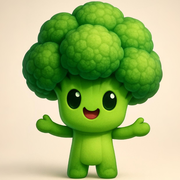
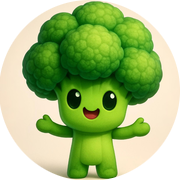
update index.html to enhance hero section and add watermark effect

diff --git a/index.html b/index.html
@@ -39,12 +39,15 @@ a:hover{color:#2a6e23}
 img{max-width:100%;display:block}
 .wrap{max-width:960px;margin:0 auto;padding:0 24px}
 
+.hero,main,footer{position:relative;z-index:1}
+
 /* ── HERO ── */
-.hero{padding:72px 24px 56px;text-align:center}
+.hero{padding:140px 24px 56px;text-align:center}
 .hero-inner{max-width:640px;margin:0 auto}
 .badge{display:inline-flex;align-items:center;gap:8px;background:#fffdf7;border:1px solid #e3d8bf;color:#6b6046;font-size:0.78em;font-weight:700;letter-spacing:0.04em;padding:6px 16px;border-radius:100px;margin-bottom:28px}
 .badge-dot{width:7px;height:7px;background:#3d8b2f;border-radius:50%}
 .logo{width:104px;height:104px;border-radius:28px;object-fit:cover;margin:0 auto 24px;box-shadow:0 12px 30px rgba(61,139,47,0.22)}
+.brand-name{font-size:1.15em;font-weight:900;color:#3d8b2f;letter-spacing:0.02em;text-transform:uppercase;margin-bottom:8px}
 .hero h1{font-size:clamp(2.1em,5.4vw,3.2em);font-weight:900;color:#1d4d18;line-height:1.15;letter-spacing:-0.01em;margin-bottom:18px}
 .hero h1 .accent{color:#3d8b2f}
 .hero-sub{font-size:1.08em;color:#5a5240;max-width:460px;margin:0 auto 34px;line-height:1.7}
@@ -149,8 +152,10 @@ section{max-width:960px;margin:0 auto 76px}
 footer{text-align:center;padding:30px 24px 44px;font-size:0.85em;color:#8a8068}
 footer a{font-weight:700}
 
+.bg-watermark{position:fixed;top:0;left:50%;transform:translateX(-50%);font-size:clamp(3.5em,14vw,9em);font-weight:900;color:#3d8b2f;opacity:1;white-space:nowrap;pointer-events:none;z-index:0;letter-spacing:-0.02em;transition:opacity 0.1s linear}
+
 @media (max-width:600px){
-.hero{padding:52px 20px 40px}
+.hero{padding:110px 20px 40px}
 .features-grid{grid-template-columns:1fr}
 .reviews-grid{grid-template-columns:1fr}
 .cta-box{padding:38px 22px}
@@ -160,10 +165,12 @@ footer a{font-weight:700}
 </head>
 <body>
 
+<div class="bg-watermark" aria-hidden="true">BrocoQuests</div>
+
 <section class="hero" data-screen-label="hero">
 <div class="hero-inner">
-<div class="badge"><span class="badge-dot"></span>Disponible maintenant</div>
 <img src="icon.png" alt="Broco, la mascotte de BrocoQuests" class="logo">
+<div class="badge"><span class="badge-dot"></span>Disponible maintenant</div>
 <h1>Apprends. Joue. <span class="accent">Progresse.</span></h1>
 <p class="hero-sub">BrocoQuests transforme l'apprentissage de la culture générale, de l'orthographe et du vocabulaire en des petites quêtes quotidiennes. 5 minutes de quiz par jour pour une vraie différence.</p>
 <a href="https://linktr.ee/brocoquests" class="hero-cta" target="_blank" rel="noopener">Télécharger gratuitement <span class="arrow">→</span></a>
@@ -329,6 +336,18 @@ footer a{font-weight:700}
 <footer>
 <p>Questions ? <a href="mailto:brocoquests@gmail.com">brocoquests@gmail.com</a></p>
 </footer>
+<script>
+(function(){
+var watermark=document.querySelector('.bg-watermark');
+var fadeDistance=300;
+function updateOpacity(){
+var opacity=Math.max(0.05,1-window.scrollY/fadeDistance);
+watermark.style.opacity=opacity;
+}
+window.addEventListener('scroll',updateOpacity,{passive:true});
+updateOpacity();
+})();
+</script>
 <script type="application/ld+json">
 {
   "@context": "https://schema.org",
